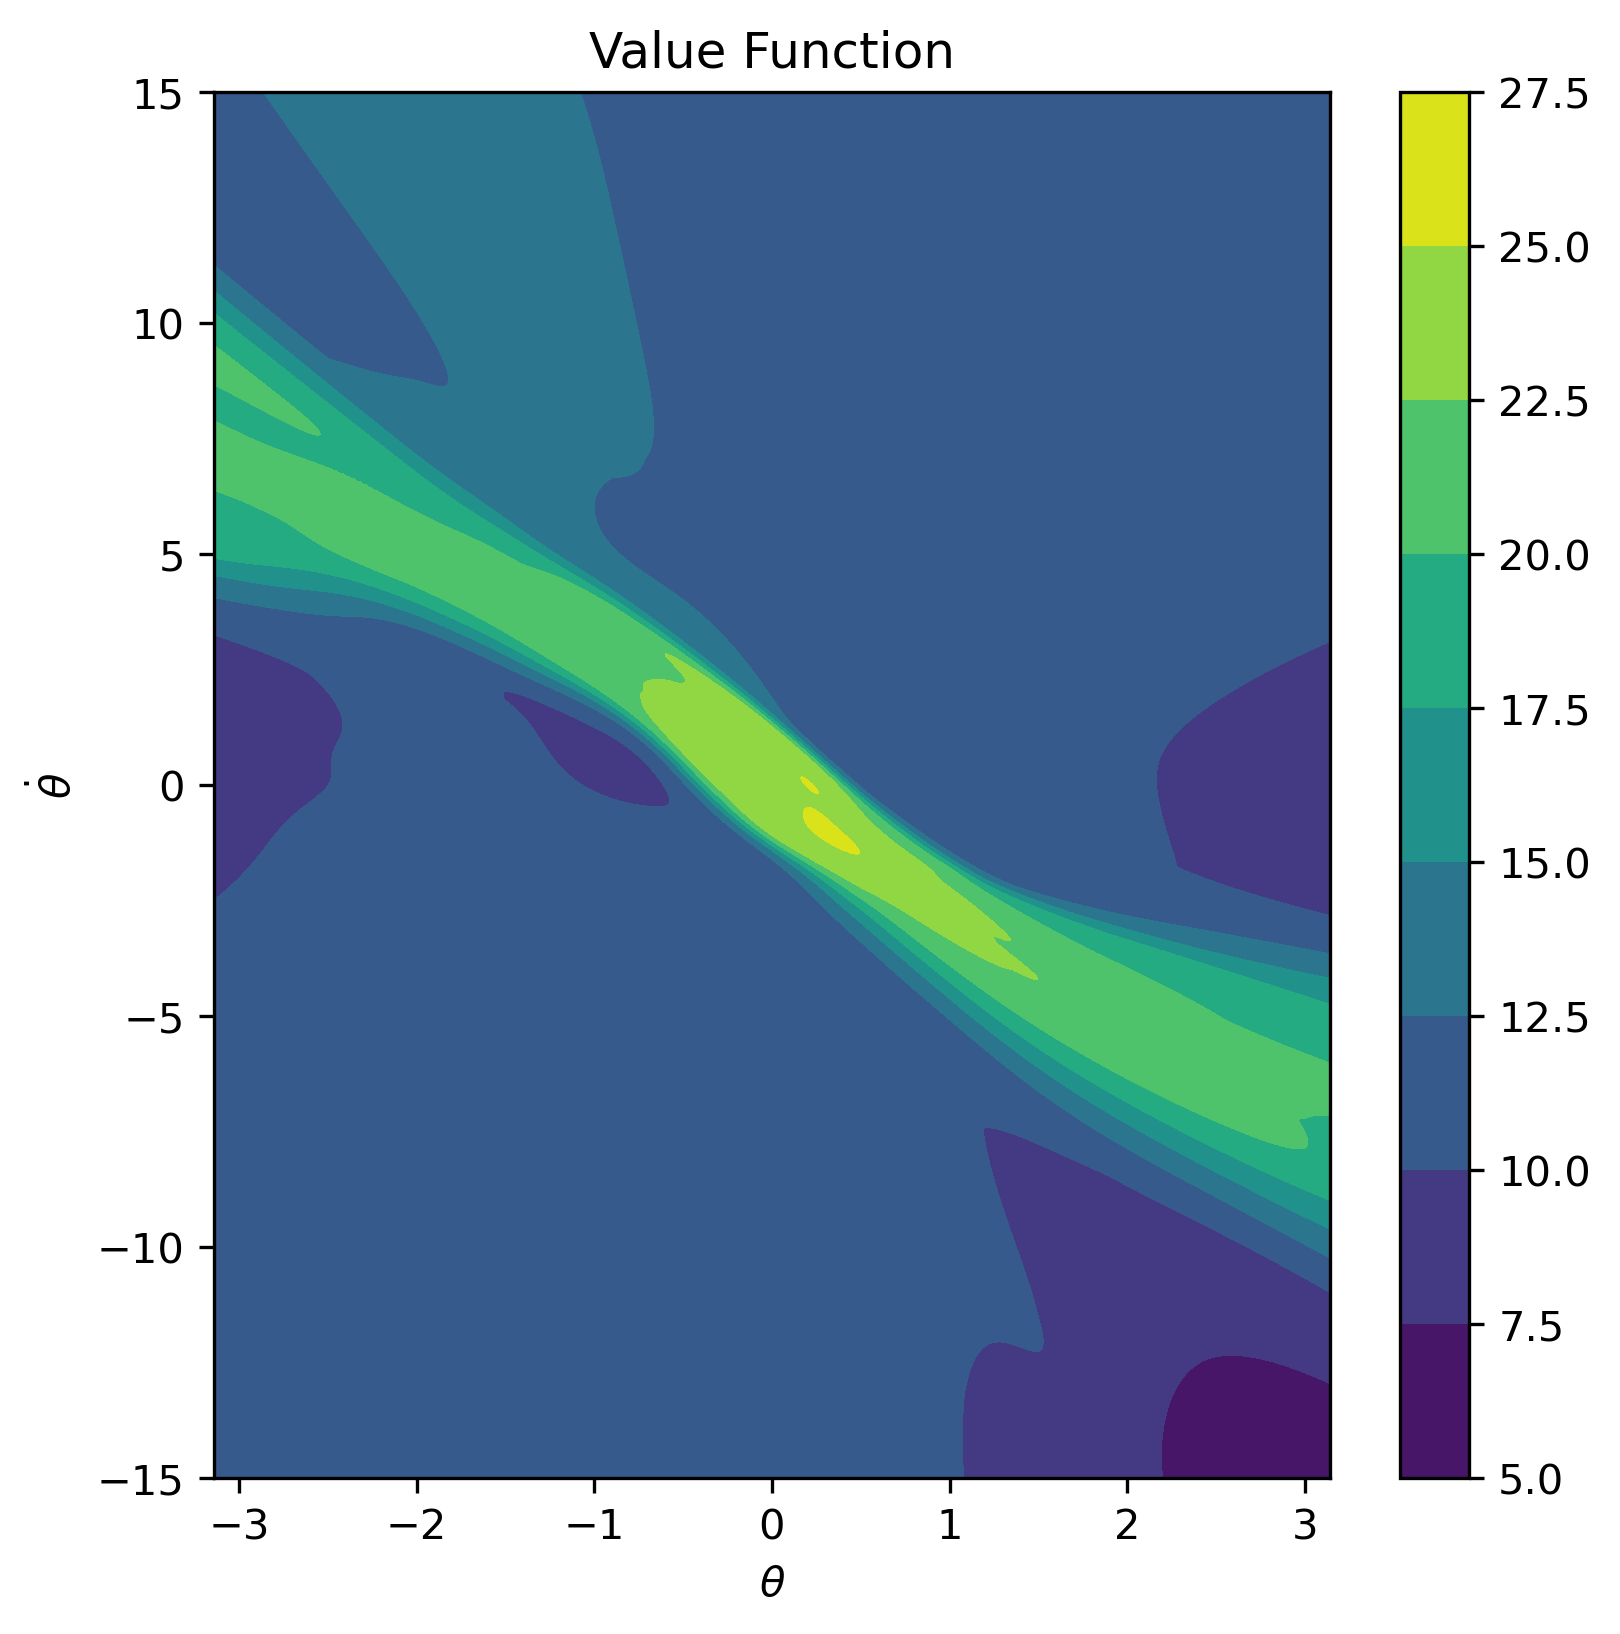
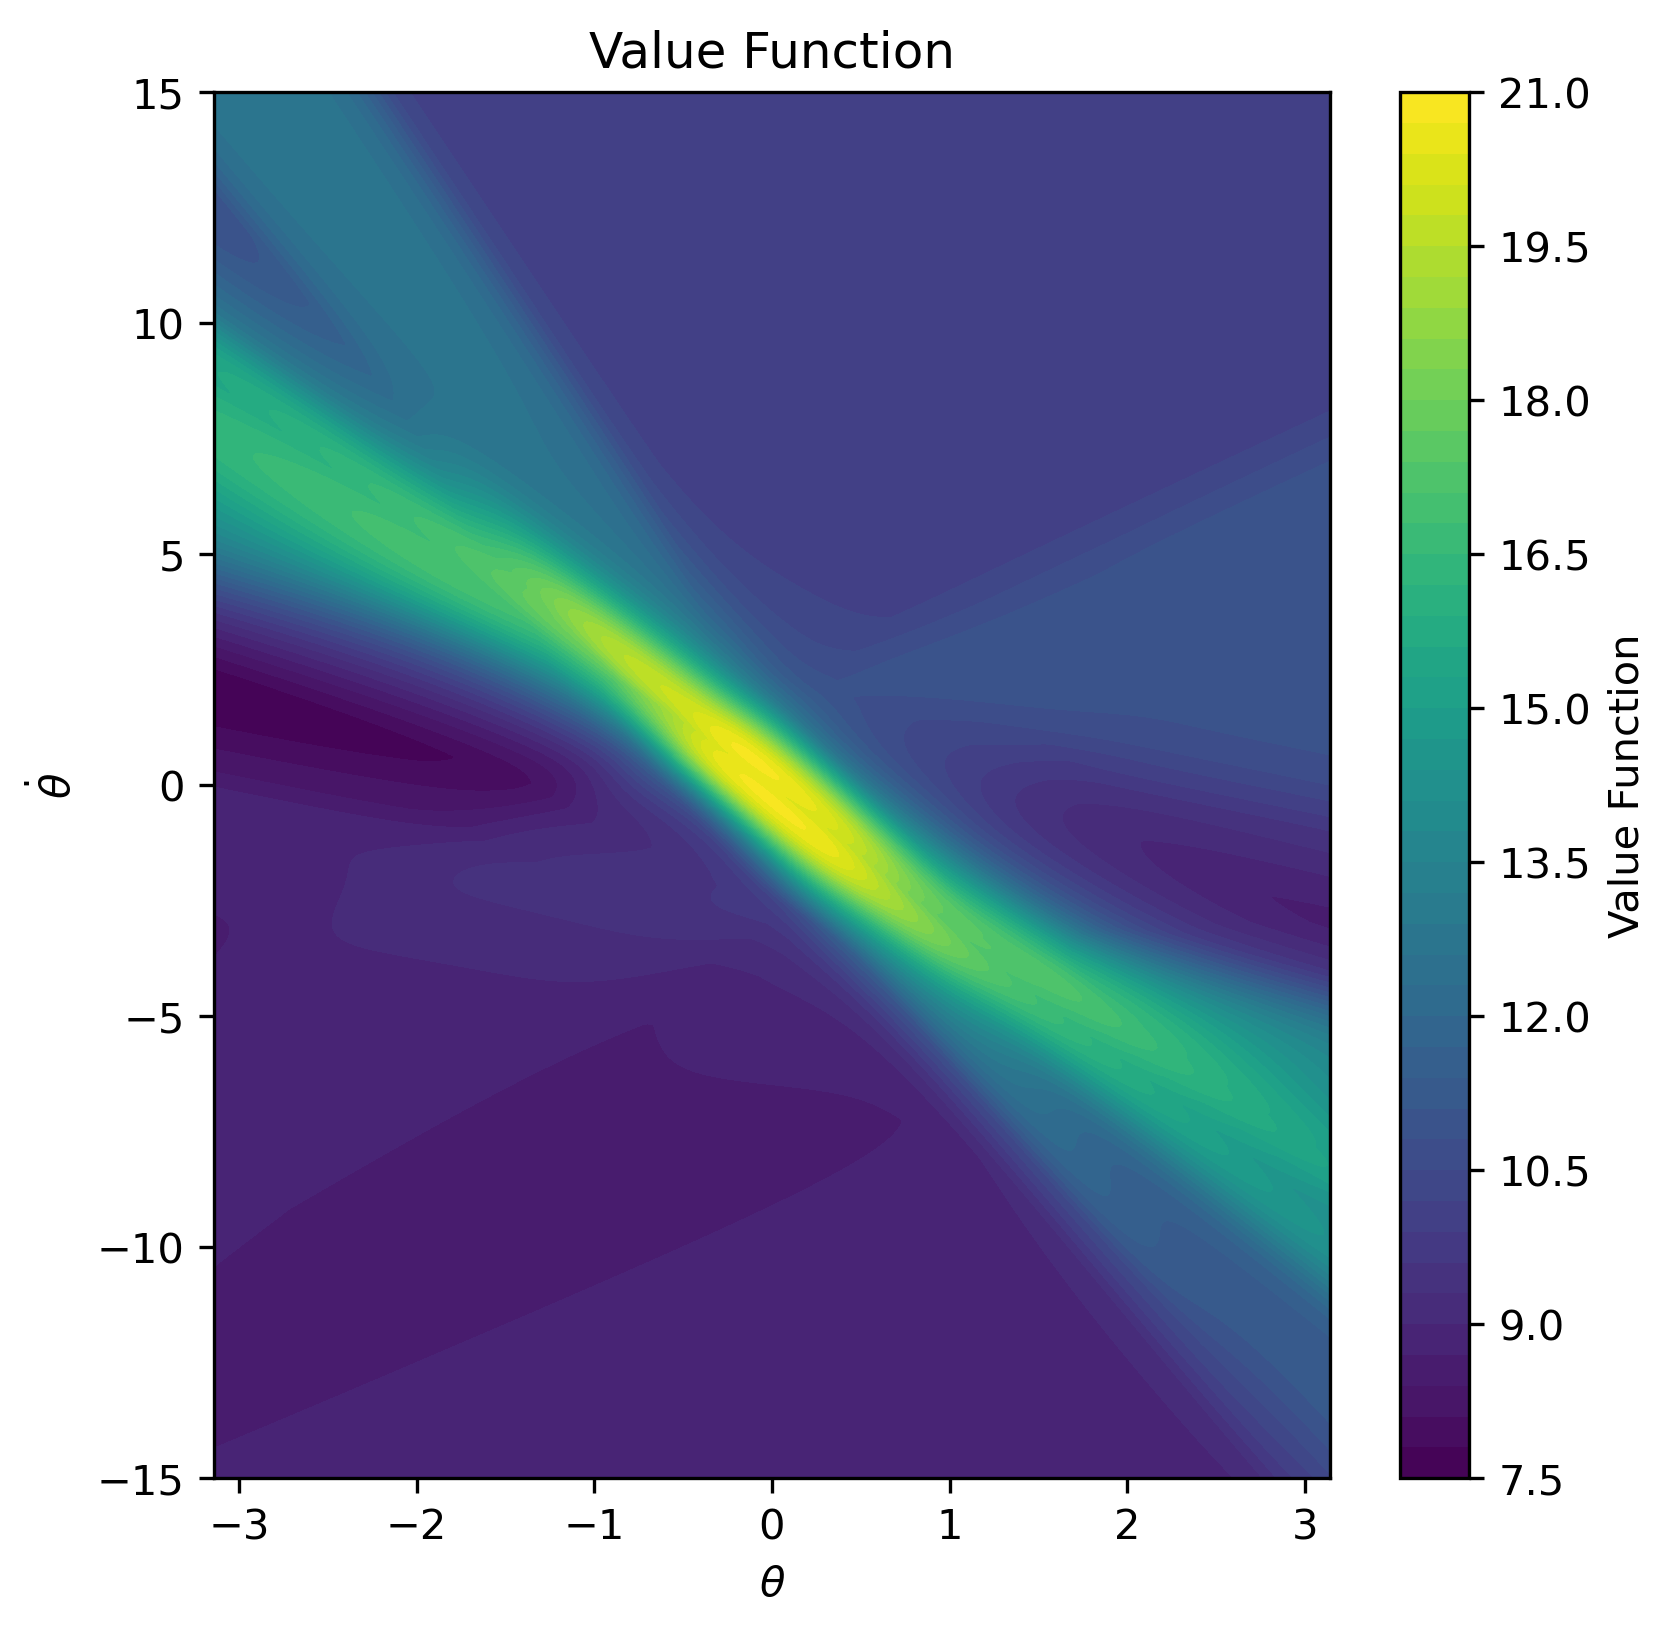
lil update

diff --git a/train_discreteaction_pendulum.py b/train_discreteaction_pendulum.py
@@ -1,8 +1,8 @@
 import numpy as np
-import tensorflow as tf
 import matplotlib.pyplot as plt
 import discreteaction_pendulum
 
+import itertools
 import torch
 import torch.nn as nn
 import torch.optim as optim
@@ -14,19 +14,18 @@ import torch.optim as optim
 # Without replay, without target Q (i.e., the target network is reset after each step and the size of the replay memory buffer is equal to the size of each minibatch).
 
 class DQN:
-    def __init__(self, env, gamma, epsilon, epsilon_decay, epsilon_min, learning_rate, batch_size, replay_size, init_replay_size, target_update, num_hidden, num_layers):
+    def __init__(self, env, gamma, epsilon, epsilon_min, learning_rate, batch_size, replay_size, init_replay_size, target_update, savefig):
         self.env = env
         self.gamma = gamma
         self.epsilon = epsilon
-        self.epsilon_decay = epsilon_decay
         self.epsilon_min = epsilon_min
         self.learning_rate = learning_rate
         self.batch_size = batch_size
         self.replay_size = replay_size
         self.target_update = target_update
         self.target_counter = 0
+        num_hidden = 64
         self.num_hidden = num_hidden
-        self.num_layers = num_layers
 
         self.replay_buffer = []
         self.init_replay_size = init_replay_size
@@ -34,8 +33,9 @@ class DQN:
 
         self.num_actions = env.num_actions
         self.num_states = env.num_states
-
         self.build_model()
+
+        self.savefig = savefig
         return None
 
     def initialize_replay_buffer(self):
@@ -48,25 +48,6 @@ class DQN:
                 self.replay_buffer.append((s, a, r, s_, done))
                 s = s_
         return None
-
-    # def build_model(self):
-    #     # build the model here
-    #     # update the target Q network every self.target_update steps
-    #     model = tf.keras.models.Sequential()
-    #     model.add(tf.keras.layers.InputLayer(input_shape=(self.num_states,), name='input'))
-    #     model.add(tf.keras.layers.Flatten(name='flatten'))
-    #     for i in range(self.num_layers - 1):
-    #         model.add(tf.keras.layers.Dense(self.num_hidden, activation='tanh', name=f'hidden_{i}'))
-    #     model.add(tf.keras.layers.Dense(self.num_actions, activation='linear', name='output'))
-    #     model.compile(optimizer=tf.keras.optimizers.RMSprop(learning_rate=self.learning_rate), loss='mse') ## , rho=0.95, epsilon=0.01, momentum=0.95
-    #     self.model = model
-    #     # model.summary()
-    #     self.target_model = model
-    #     self.target_model.set_weights(self.model.get_weights())
-    #     # self.target_model.trainable = False
-    #     self.target_model.compile(optimizer=tf.keras.optimizers.RMSprop(learning_rate=self.learning_rate), loss='mse') # , rho=0.95, epsilon=0.01, momentum=0.95
-    #     # self.target_model.summary()
-    #     return None
 
     def build_model(self):
         model = nn.Sequential(
@@ -89,8 +70,7 @@ class DQN:
         if val < self.epsilon:
             return np.random.randint(self.num_actions)
         else:
-            # return np.argmax(self.model.predict(state, verbose=0)) # for tf.keras
-            return np.argmax(self.model(torch.from_numpy(state).float()).detach().numpy()) # for pytorch
+            return np.argmax(self.model(torch.from_numpy(state).float()).detach().numpy())
 
     def observe(self, state, action, reward, next_state, done):
         # if the replay buffer is full, replace the oldest transition
@@ -100,28 +80,6 @@ class DQN:
             self.replay_buffer.pop(0)
         self.replay_buffer.append(buffer)
         return None
-
-    # def replay(self):
-    #     # sample a minibatch from the replay buffer
-    #     # train the model on the minibatch
-    #     minibatch_idx = np.random.choice(len(self.replay_buffer), self.batch_size)
-    #     minibatch = [self.replay_buffer[i] for i in minibatch_idx]
-    #     states = np.array([x[0] for x in minibatch])
-    #     actions = np.array([x[1] for x in minibatch])
-    #     rewards = np.array([x[2] for x in minibatch])
-    #     next_states = np.array([x[3] for x in minibatch])
-    #     dones = np.array([x[4] for x in minibatch])
-    #     target = self.model.predict(states, verbose=0)
-    #     # target_model_temp = tf.keras.models.clone_model(self.model)
-    #     # target_next = target_model_temp.predict(next_states, verbose=0)
-    #     target_next = self.target_model.predict(next_states, verbose=0)
-    #     for i in range(self.batch_size):
-    #         if dones[i]:
-    #             target[i][actions[i]] = rewards[i]
-    #         else:
-    #             target[i][actions[i]] = rewards[i] + self.gamma * np.max(target_next[i])
-    #     self.model.fit(states, target, verbose=0, epochs=1)
-    #     return None
 
     def replay(self):
         batch_idx = np.random.choice(len(self.replay_buffer), self.batch_size)
@@ -144,12 +102,6 @@ class DQN:
                 param.grad.data.clamp_(-1, 1)
             self.optimizer.step()
         return None
-
-    # def check_target_update(self):
-    #     # update the target network every self.target_update steps
-    #     if self.target_counter % self.target_update == 0:
-    #         self.target_model.set_weights(self.model.get_weights())
-    #     return None
 
     def check_target_update(self):
         if self.target_counter % self.target_update == 0:
@@ -181,7 +133,7 @@ class DQN:
             self.check_target_update()
             self.epsilon = max(self.epsilon - 0.9/1e4, self.epsilon_min)
             s = s_
-            log['t'].append(log['t'][-1] + 1)
+            log['t'].append(log['t'][-1] + 1*self.env.dt)
             log['s'].append(s)
             log['a'].append(a)
             log['r'].append(r)
@@ -190,15 +142,15 @@ class DQN:
         log['G'] = G
         tau = [self.env._a_to_u(a) for a in log['a']]
         log['tau'] = tau
-        # value_func = [np.max(self.model.predict(s, verbose=0)) for s in log['s']] # for keras
-        value_func = [torch.max(self.model(torch.FloatTensor(s))).item() for s in log['s']] # for pytorch
+        value_func = [torch.max(self.model(torch.FloatTensor(s))).item() for s in log['s']]
         log['value_func'] = value_func
         self.G.append(log['G'])
         self.all_theta += log['theta']
         self.all_thetadot += log['thetadot']
         self.all_tau += log['tau']
         self.all_value_func += log['value_func']
-        self.plot(log)
+        if self.savefig:
+            self.plot(log)
         return log
 
     def run(self, num_episodes):
@@ -215,16 +167,50 @@ class DQN:
             self.episode_list.append(i+2)
         return None
 
+    def plot_contour(self):
+        figsize = 6
+        size = 500
+        theta_vec = np.linspace(-np.pi, np.pi, size)
+        thetadot_vec = np.linspace(-self.env.max_thetadot, self.env.max_thetadot, size)
+        theta_grid, thetadot_grid = np.meshgrid(theta_vec, thetadot_vec)
+        policy_arr = np.zeros((size, size))
+        value_func_arr = np.zeros((size, size))
+        for i, j in itertools.product(range(size), range(size)):
+            s = np.array([theta_grid[i, j], thetadot_grid[i, j]])
+            predict = self.model(torch.FloatTensor(s)).detach().numpy()
+            policy_arr[i, j] = self.env._a_to_u(np.argmax(predict))
+            value_func_arr[i, j] = np.max(predict)
+        plt.figure(figsize=(figsize, figsize), dpi=150)
+        plt.contourf(theta_grid, thetadot_grid, policy_arr, cmap='viridis', levels=50)
+        plt.colorbar(label=r'$\tau$')
+        plt.xlim(-np.pi, np.pi)
+        plt.ylim(-self.env.max_thetadot, self.env.max_thetadot)
+        plt.xlabel(r'$\theta$')
+        plt.ylabel(r'$\dot{\theta}$')
+        plt.title('Policy')
+        plt.savefig(f'./figures/results/ctr_policy_{self.num_episodes}_{self.target_update}.png', dpi=300, bbox_inches='tight')
+        plt.close()
+        plt.figure(figsize=(figsize, figsize), dpi=150)
+        plt.contourf(theta_grid, thetadot_grid, value_func_arr, cmap='viridis', levels=50)
+        plt.colorbar(label='Value Function')
+        plt.xlim(-np.pi, np.pi)
+        plt.ylim(-self.env.max_thetadot, self.env.max_thetadot)
+        plt.xlabel(r'$\theta$')
+        plt.ylabel(r'$\dot{\theta}$')
+        plt.title('Value Function')
+        plt.savefig(f'./figures/results/ctr_value_func_{self.num_episodes}_{self.target_update}.png', dpi=300, bbox_inches='tight')
+        plt.close()
+        return None
+
     def plot(self, log=None):
         def wrap_pi(x): return ((x + np.pi) % (2 * np.pi)) - np.pi
         def wrap_2pi(x): return x % (2 * np.pi)
         wrap_func = wrap_pi
-        log_init = log
+        if self.savefig and max(self.episode_list) == self.num_episodes:
+            self.plot_contour()
         # save animation
-        if log is None:
-            log = self._run_one_episode()
-            # policy_lambda = lambda s: np.argmax(self.model.predict(s, verbose=0)) # for keras
-            policy_lambda = lambda s: np.argmax(self.model(torch.FloatTensor(s)).detach().numpy()) # for pytorch
+        if log is not None and self.savefig and max(self.episode_list) == self.num_episodes:
+            policy_lambda = lambda s: np.argmax(self.model(torch.FloatTensor(s)).detach().numpy())
             self.env.video(policy_lambda, f'./figures/results/animation_{self.num_episodes}_{self.target_update}.gif')
         figsize = 6
 
@@ -241,7 +227,6 @@ class DQN:
         plt.title('Return vs. Episode #')
         plt.savefig(f'./figures/results/return_{self.num_episodes}_{self.target_update}.png', dpi=300, bbox_inches='tight')
         plt.close()
-
         # plot the trajectory
         log['theta'] = [wrap_func(x) for x in log['theta']]
         plt.figure(figsize=(figsize, figsize), dpi=150)
@@ -257,7 +242,6 @@ class DQN:
         plt.title('Pendulum State vs. Time')
         plt.savefig(f'./figures/results/state_{self.num_episodes}_{self.target_update}.png', dpi=300, bbox_inches='tight')
         plt.close()
-
         # plot the policy
         plt.figure(figsize=(figsize, figsize), dpi=150)
         plt.scatter(self.all_theta, self.all_thetadot, c=self.all_tau, cmap='viridis')
@@ -269,7 +253,6 @@ class DQN:
         plt.title('Policy')
         plt.savefig(f'./figures/results/policy_{self.num_episodes}_{self.target_update}.png', dpi=300, bbox_inches='tight')
         plt.close()
-
         # plot the value function
         plt.figure(figsize=(figsize, figsize), dpi=150)
         plt.scatter(self.all_theta, self.all_thetadot, c=self.all_value_func, cmap='viridis')
@@ -281,61 +264,23 @@ class DQN:
         plt.title('Value Function')
         plt.savefig(f'./figures/results/value_func_{self.num_episodes}_{self.target_update}.png', dpi=300, bbox_inches='tight')
         plt.close()
-
-        if log_init is None:
-            size = 500
-            theta_vec = np.linspace(-np.pi, np.pi, size)
-            thetadot_vec = np.linspace(-self.env.max_thetadot, self.env.max_thetadot, size)
-            theta_grid, thetadot_grid = np.meshgrid(theta_vec, thetadot_vec)
-            policy_arr = np.zeros((size, size))
-            value_func_arr = np.zeros((size, size))
-            for i in range(size):
-                for j in range(size):
-                    s = np.array([theta_grid[i, j], thetadot_grid[i, j]])
-                    # predict = self.model.predict(s, verbose=0) # for keras
-                    predict = self.model(torch.FloatTensor(s)).detach().numpy() # for pytorch
-                    policy_arr[i, j] = np.argmax(predict)
-                    value_func_arr[i, j] = np.max(predict)
-            plt.figure(figsize=(figsize, figsize), dpi=150)
-            plt.contourf(theta_grid, thetadot_grid, policy_arr, cmap='viridis')
-            plt.colorbar()
-            plt.xlim(-np.pi, np.pi)
-            plt.ylim(-self.env.max_thetadot, self.env.max_thetadot)
-            plt.xlabel(r'$\theta$')
-            plt.ylabel(r'$\dot{\theta}$')
-            plt.title('Policy')
-            plt.savefig(f'./figures/results/ctr_policy_{self.num_episodes}_{self.target_update}.png', dpi=300, bbox_inches='tight')
-            plt.close()
-            plt.figure(figsize=(figsize, figsize), dpi=150)
-            plt.contourf(theta_grid, thetadot_grid, value_func_arr, cmap='viridis')
-            plt.colorbar()
-            plt.xlim(-np.pi, np.pi)
-            plt.ylim(-self.env.max_thetadot, self.env.max_thetadot)
-            plt.xlabel(r'$\theta$')
-            plt.ylabel(r'$\dot{\theta}$')
-            plt.title('Value Function')
-            plt.savefig(f'./figures/results/ctr_value_func_{self.num_episodes}_{self.target_update}.png', dpi=300, bbox_inches='tight')
-            plt.close()
         return None
 
 def main():
     env = discreteaction_pendulum.Pendulum()
     gamma = 0.95
     epsilon = 1.0
-    epsilon_decay = 0.995
     epsilon_min = 0.1
     learning_rate = 0.00025
-    batch_size = 64
+    batch_size = 32
     replay_size = 100000
     init_replay_size = 500
     target_update = 1000
-    num_hidden = 64
-    num_layers = 2
-    dqn = DQN(env, gamma, epsilon, epsilon_decay, epsilon_min, learning_rate, batch_size, replay_size, init_replay_size, target_update, num_hidden, num_layers)
+    savefig = True
+    dqn = DQN(env, gamma, epsilon, epsilon_min, learning_rate, batch_size, replay_size, init_replay_size, target_update, savefig)
 
     num_episodes = 150
     dqn.run(num_episodes)
-    dqn.plot()
     return None
 
 if __name__ == '__main__':
